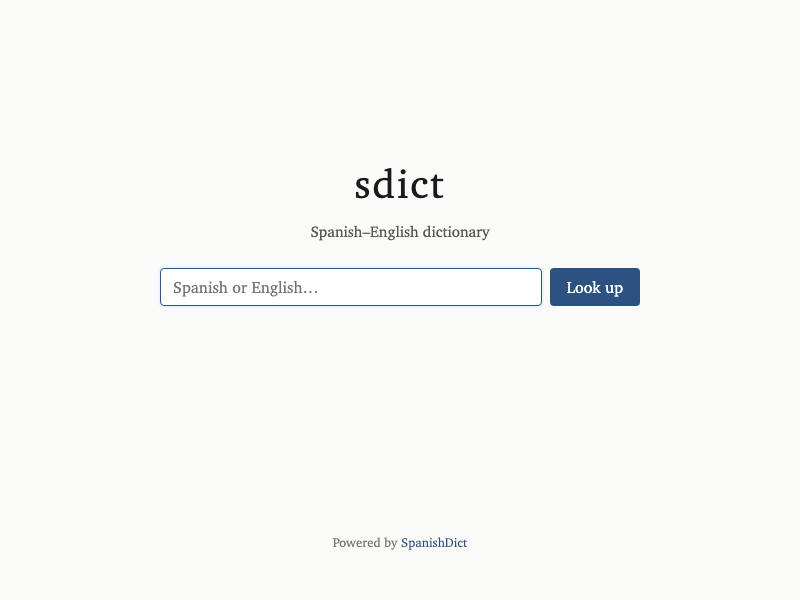
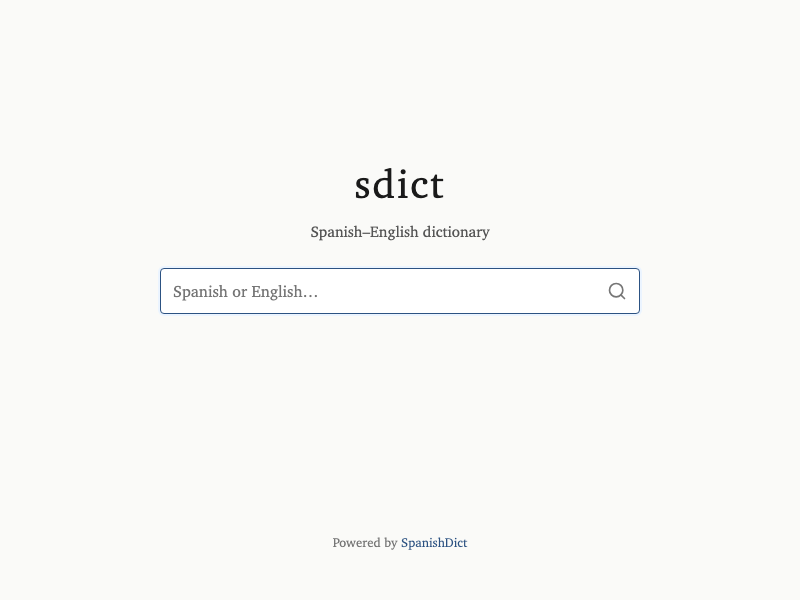
feat: UI polish
- Make things bigger
- improve styling of search bar
- handle 'no direct translation'
- linkify sense names

Changed region(s): [[0.2188, 0.45, 0.4062, 0.51], [0.6875, 0.45, 0.8125, 0.51]]

diff --git a/templates/base.html b/templates/base.html
@@ -127,6 +127,9 @@
       .font-semibold {
         font-weight: 600;
       }
+      .font-normal {
+        font-weight: 400;
+      }
       .uppercase-label {
         font-size: 0.75rem;
         font-weight: 600;
@@ -141,34 +144,38 @@
 
       .search-form {
         margin-bottom: 1rem;
+        border: 1px solid var(--border);
+        border-radius: 4px;
+        background: var(--bg-input);
+      }
+      .search-form:focus-within {
+        border-color: var(--accent);
+        box-shadow: 0 0 0 2px var(--accent-light);
       }
       .search-form input[type="text"] {
         flex: 1;
         font-family: inherit;
         font-size: 1rem;
         padding: 0.5rem 0.75rem;
-        border: 1px solid var(--border);
-        border-radius: 4px;
-        background: var(--bg-input);
+        border: none;
+        background: none;
         color: var(--text);
-      }
-      .search-form input[type="text"]:focus {
         outline: none;
-        border-color: var(--accent);
-        box-shadow: 0 0 0 2px var(--accent-light);
       }
       .search-form button {
-        font-family: inherit;
-        font-size: 1rem;
-        padding: 0.5rem 1rem;
-        background: var(--btn);
-        color: #fff;
-        border: 1px solid transparent;
-        border-radius: 4px;
+        background: none;
+        border: none;
+        color: var(--text-faint);
+        padding: 0.5rem;
+        min-width: 44px;
+        min-height: 44px;
+        display: flex;
+        align-items: center;
+        justify-content: center;
         cursor: pointer;
       }
       .search-form button:hover {
-        background: var(--btn-hover);
+        color: var(--text);
       }
       .search-form button:focus-visible {
         outline: none;
@@ -284,11 +291,11 @@
         font-size: 1rem;
         font-weight: 400;
         letter-spacing: 0.05em;
-        color: var(--text-faint);
+        color: var(--text);
         margin-bottom: 0.5rem;
       }
       .site-name:hover {
-        color: var(--text);
+        color: var(--text-faint);
         text-decoration: none;
       }
 
@@ -303,15 +310,6 @@
         background: var(--btn);
         color: #fff;
         border-color: var(--btn);
-      }
-      /* iOS Safari zooms in on inputs with font-size < 16px */
-      .search-form[data-size="small"] input[type="text"] {
-        font-size: max(16px, 0.9rem);
-        padding: 0.4rem 0.65rem;
-      }
-      .search-form[data-size="small"] button {
-        font-size: max(16px, 0.9rem);
-        padding: 0.4rem 0.85rem;
       }
     </style>
   </head>

diff --git a/templates/results.html b/templates/results.html
@@ -35,12 +35,15 @@
     {% for tr in sense.translations %}
     <div class="translation indent font-semibold">
       {% if sense.translations.len() > 1 %}
-      <span class="color-secondary" style="font-weight: 400">{{ loop.index0|index_to_letter }}.</span>
+      <span class="color-secondary" class="font-normal">{{ loop.index0|index_to_letter }}.</span>
       {% endif %}
-      {{ tr.text }}
+      {% if tr.text.is_empty() %}<span class="font-normal">no direct translation</span>
+      {% else %}
+      <a href="/translate/{{ tr.text|urlencode }}">{{ tr.text }}</a>
+      {% endif %}
     </div>
     {% for ex in tr.examples %}
-    <div class="example indent text-s">
+    <div class="example indent">
       <div class="italic" lang="es">{{ ex.spanish }}</div>
       <div class="color-secondary">{{ ex.english }}</div>
     </div>
@@ -75,7 +78,7 @@
      the search term. The HTML is sanitized at parse time (via ammonia) to only
      allow <em> tags; all other HTML is stripped. #}
   {% for ex in filtered_examples %}
-  <div class="corpus-example text-s">
+  <div class="corpus-example">
     <div lang="es">{{ ex.spanish|safe }}</div>
     <div class="color-secondary">{{ ex.english|safe }}</div>
   </div>

diff --git a/templates/_search_form.html b/templates/_search_form.html
@@ -1,4 +1,4 @@
-<form class="search-form cluster"{% if search.small %} data-size="small"{% endif %} action="/search" method="post">
+<form class="search-form cluster" action="/search" method="post">
   <input
     type="text"
     name="term"
@@ -7,5 +7,10 @@
     aria-label="Search for a Spanish or English word"
     {% if search.autofocus %}autofocus{% endif %}
   />
-  <button type="submit">Look up</button>
+  <button type="submit" aria-label="Search">
+    <svg width="20" height="20" viewBox="0 0 24 24" fill="none" stroke="currentColor" stroke-width="2" stroke-linecap="round" stroke-linejoin="round" aria-hidden="true">
+      <circle cx="11" cy="11" r="8"></circle>
+      <path d="m21 21-4.35-4.35"></path>
+    </svg>
+  </button>
 </form>

diff --git a/src/lib.rs b/src/lib.rs
@@ -25,7 +25,6 @@ pub struct AppState {
 // --- Template structs ---
 
 struct SearchFormProps {
-    small: bool,
     value: String,
     autofocus: bool,
 }
@@ -87,7 +86,6 @@ pub struct TranslateQuery {
 async fn home() -> impl IntoResponse {
     HomeTemplate {
         search: SearchFormProps {
-            small: false,
             value: String::new(),
             autofocus: true,
         },
@@ -99,7 +97,6 @@ async fn not_found() -> impl IntoResponse {
         StatusCode::NOT_FOUND,
         NotFoundTemplate {
             search: SearchFormProps {
-                small: true,
                 value: String::new(),
                 autofocus: true,
             },
@@ -129,7 +126,6 @@ async fn translate(
                 None => term.examples.clone(),
             };
             let search = SearchFormProps {
-                small: true,
                 value: term.query.clone(),
                 autofocus: false,
             };
@@ -146,7 +142,6 @@ async fn translate(
             StatusCode::OK,
             ErrorTemplate {
                 search: SearchFormProps {
-                    small: true,
                     value: t.clone(),
                     autofocus: true,
                 },
@@ -160,7 +155,6 @@ async fn translate(
                 StatusCode::OK,
                 ErrorTemplate {
                     search: SearchFormProps {
-                        small: true,
                         value: term.clone(),
                         autofocus: true,
                     },

diff --git a/README.md b/README.md
@@ -5,6 +5,7 @@
 > Please clean up your site. I'm trying to learn Spanish.
 >
 > Saludos,
+>
 > Steve
 
 # sdict
